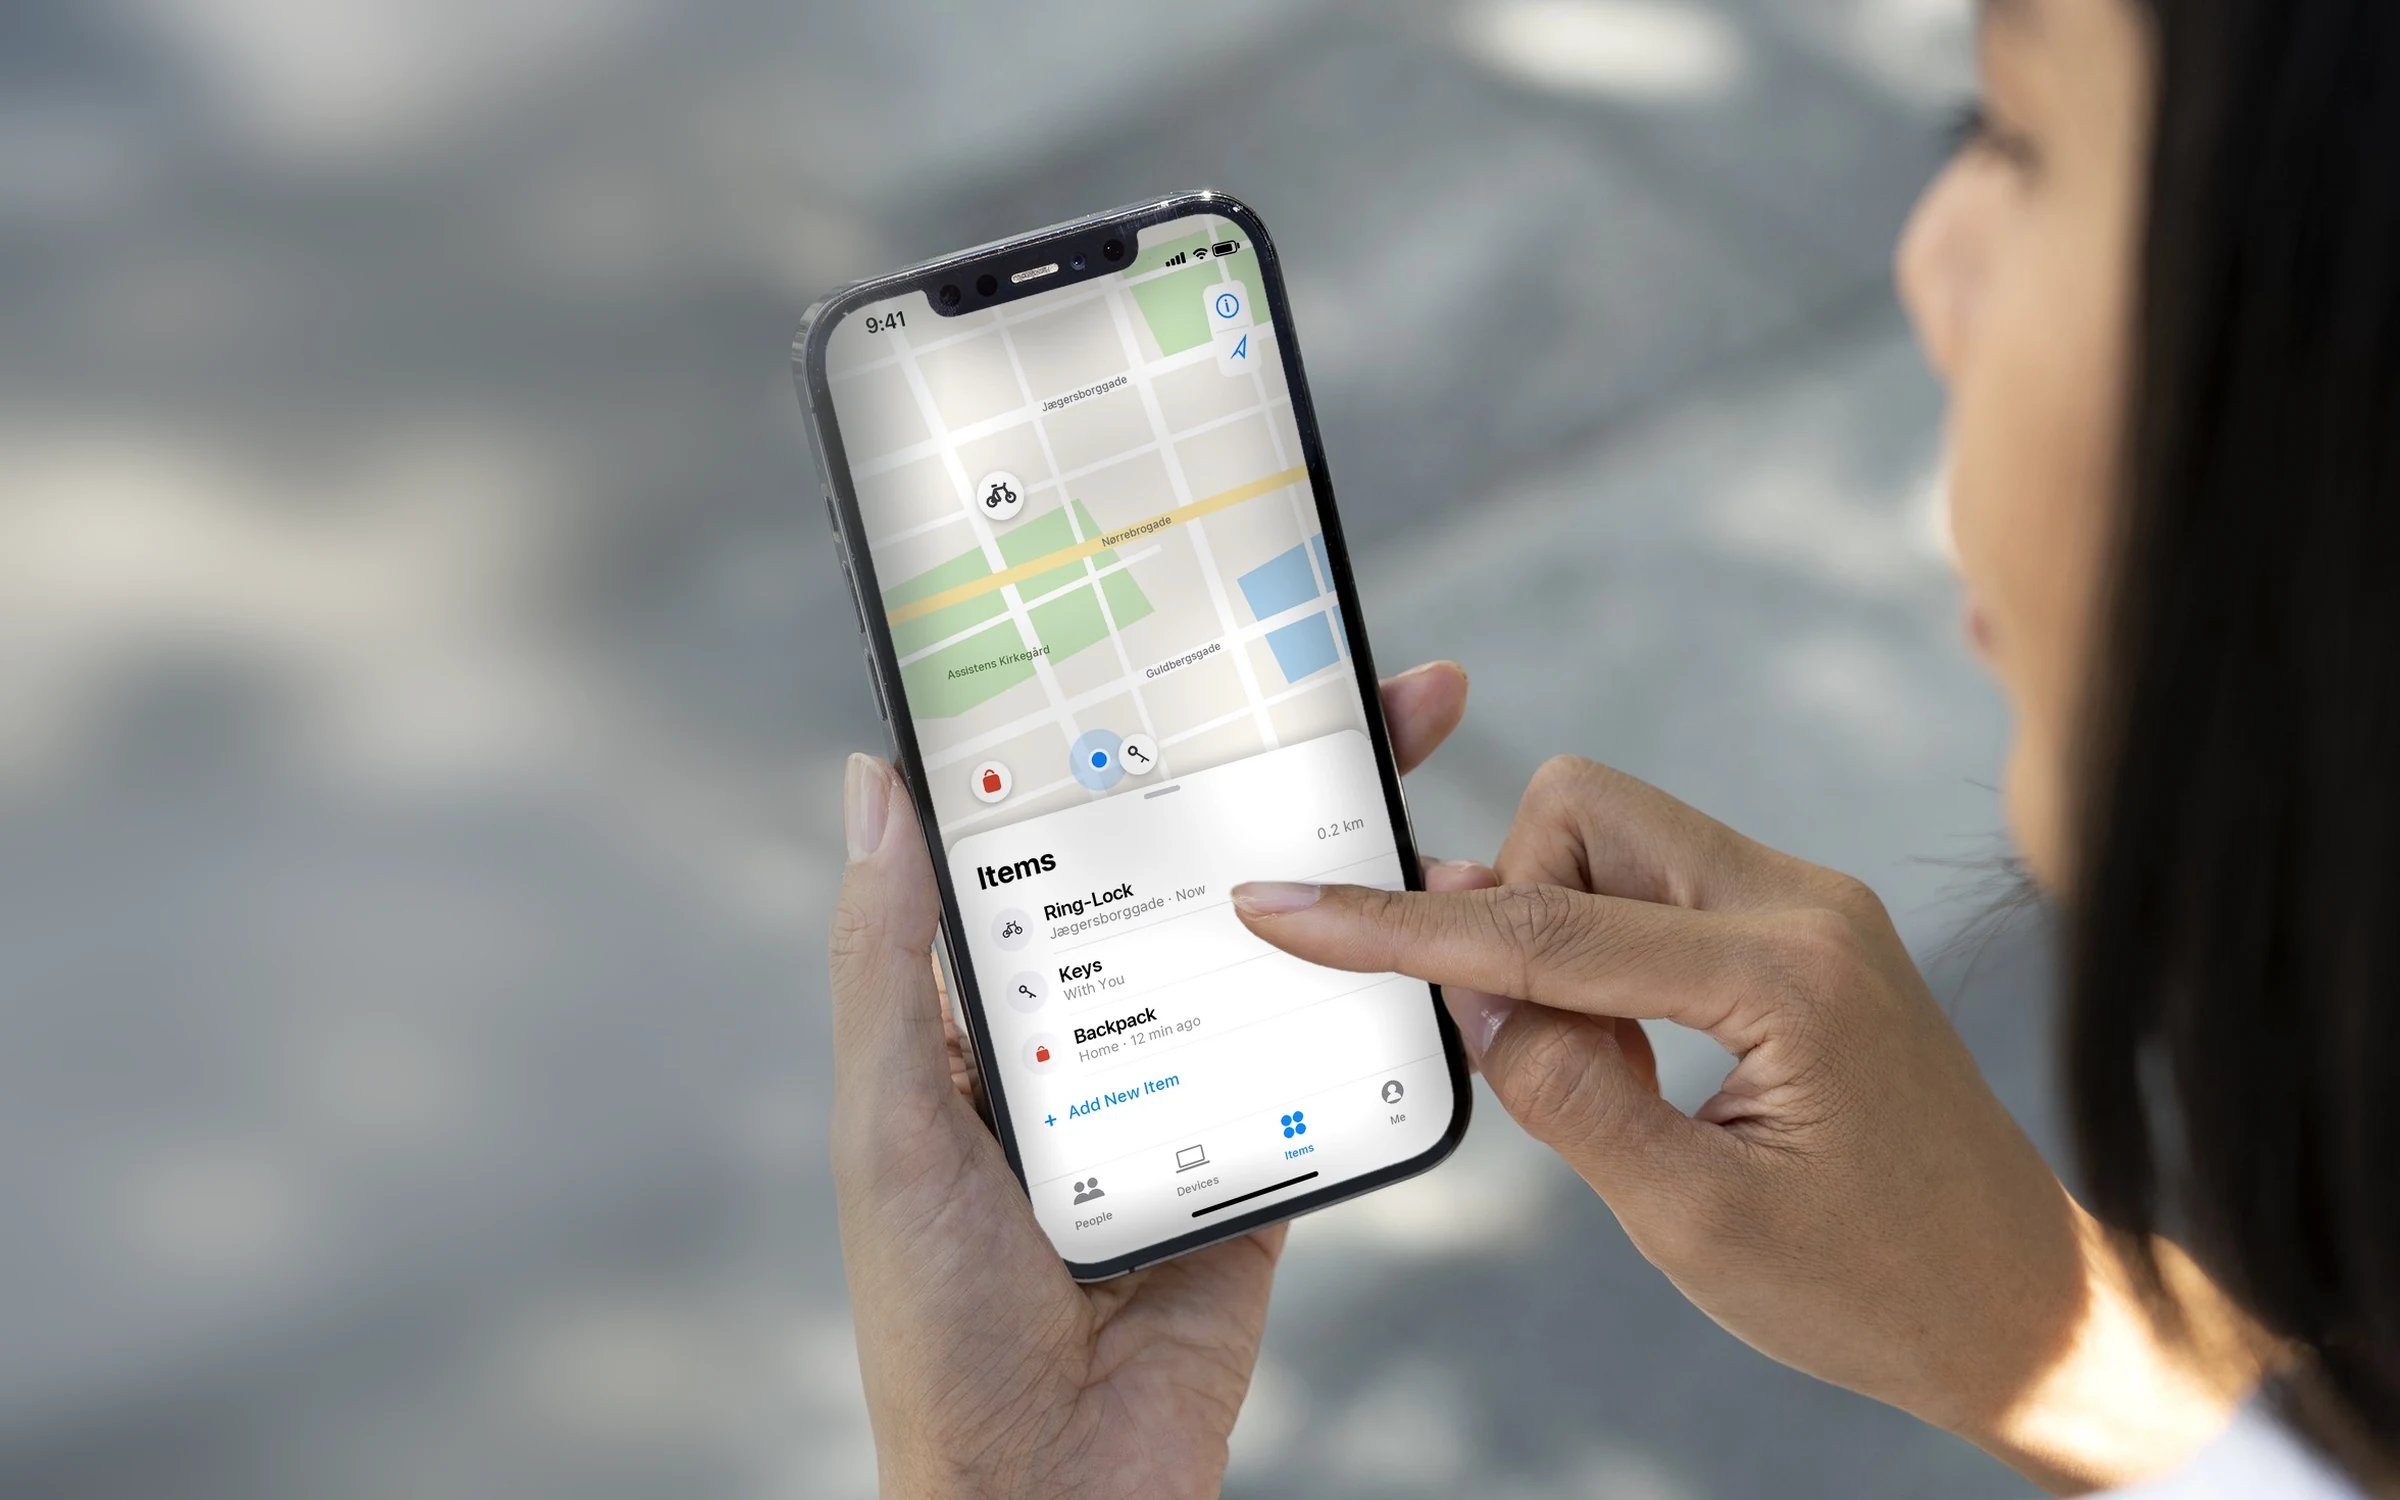
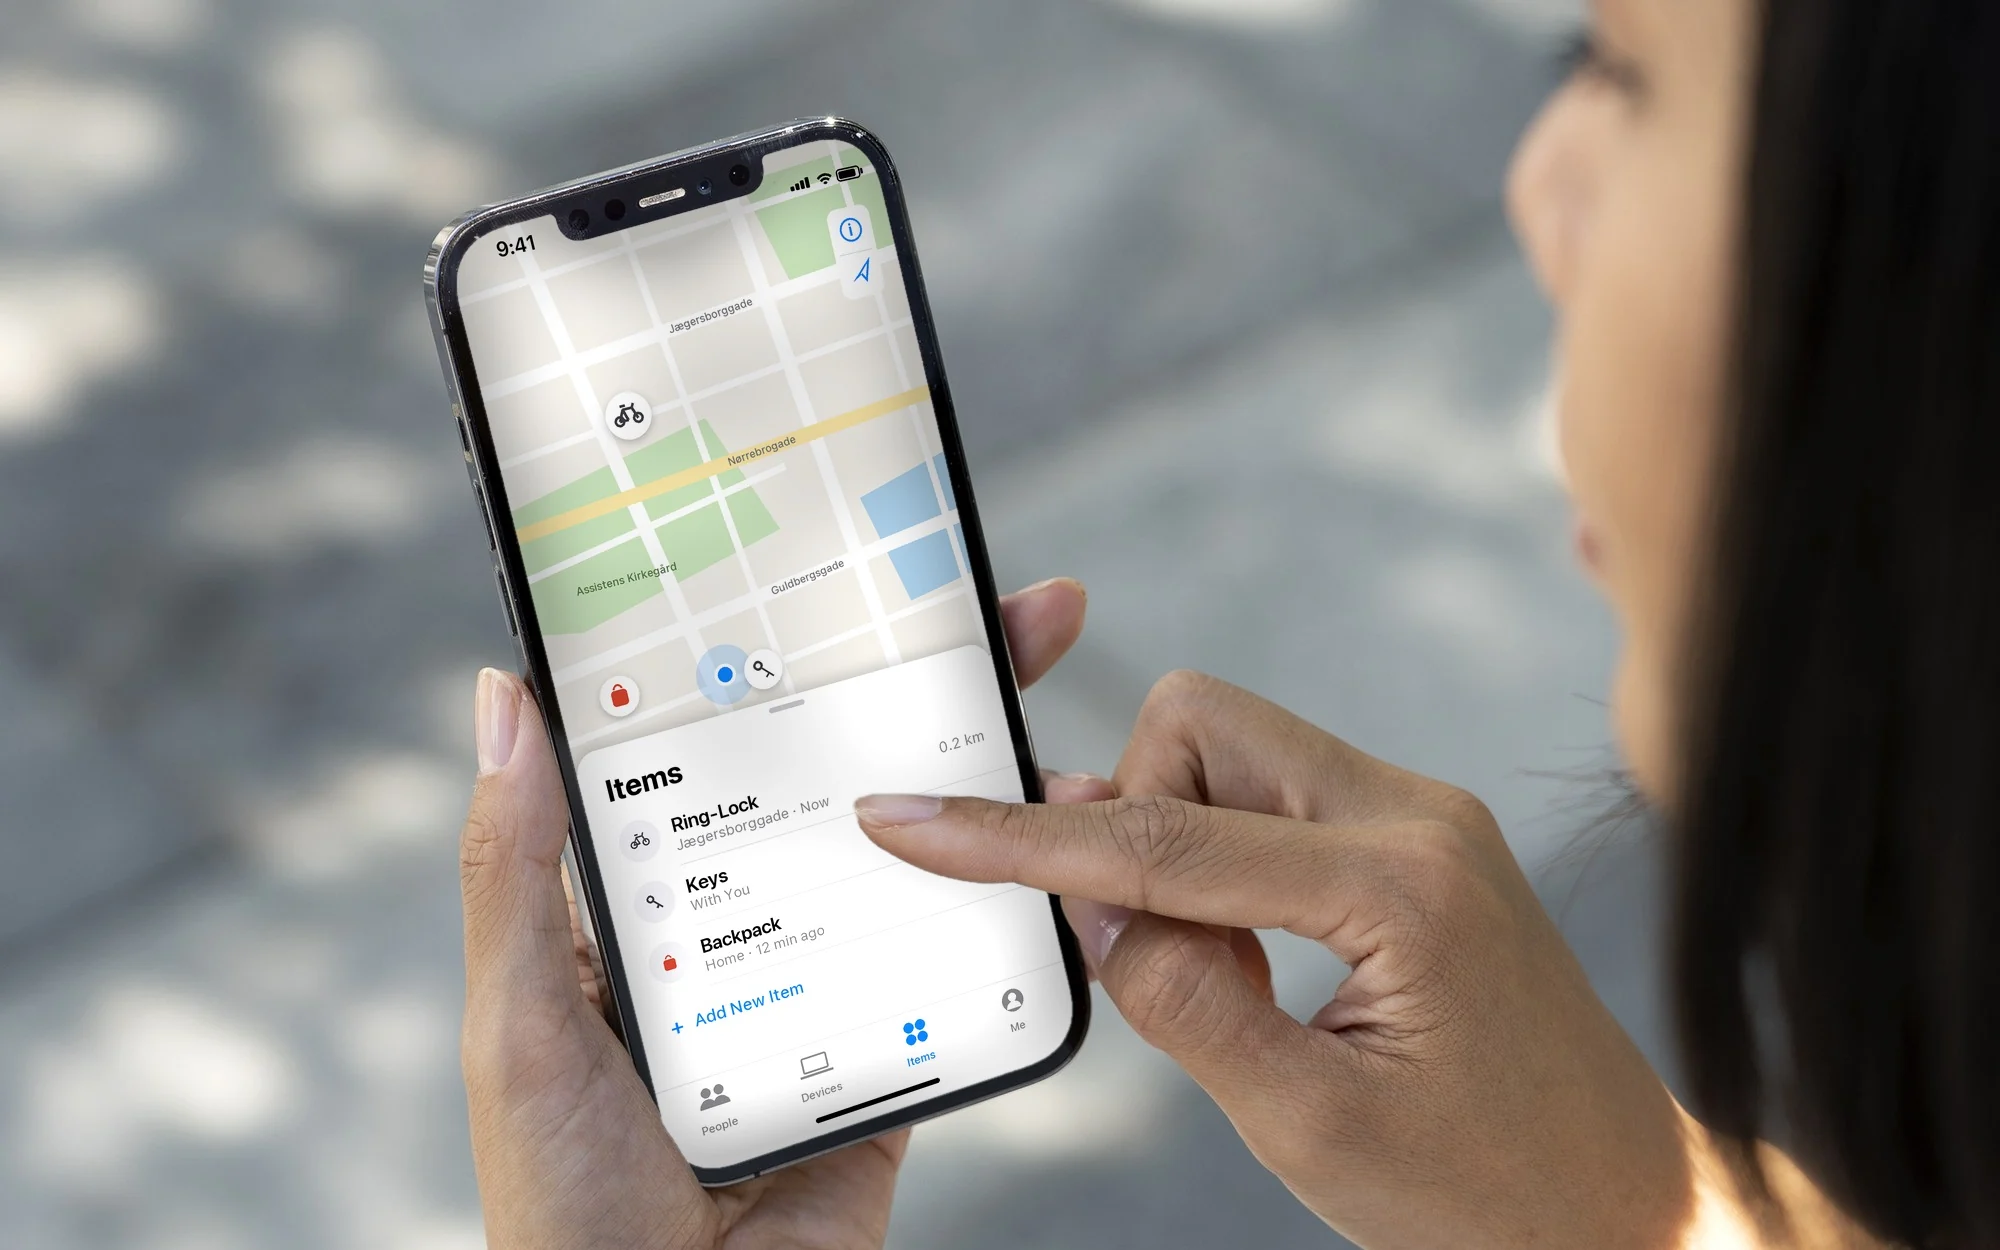
Story frames 2 and 3 as the photos are (no blurred fill), frame 3 = hand, phone and LAAS app at the bike; their lines sit right on wide screens

diff --git a/index.html b/index.html
@@ -22,7 +22,7 @@
 <link rel="preload" href="fonts/inter-400-600-latin.woff2" as="font" type="font/woff2" crossorigin>
 <link rel="preload" href="images/lock/steel-00-800.webp" as="image" type="image/webp" media="(max-width: 900px)">
 <link rel="preload" href="images/lock/steel-00-1600.webp" as="image" type="image/webp" media="(min-width: 901px)">
-<link rel="stylesheet" href="darkroom.css?v=1019i">
+<link rel="stylesheet" href="darkroom.css?v=1019j">
 <script>
   // the loader only exists when scripts run; if the 3D engine never arrives, the page still opens
   document.documentElement.classList.add('is-loading');
@@ -199,8 +199,8 @@
   <section class="tale" id="moved" data-nav-section="intro" data-tone="dark" data-bg="#202F30" data-key='{"hide":1}' aria-labelledby="h1c">
     <div class="tale__pin">
       <figure class="tale__shot is-on" data-i="0"><picture><source media="(max-width: 760px)" srcset="images/story/crowd-m.webp"><img src="images/story/crowd-wide.webp" alt="She looks around a park, trying to remember where she parked" decoding="async"></picture></figure>
-      <figure class="tale__shot" data-i="1"><picture><source media="(max-width: 760px)" srcset="images/story/findmy-m.webp?v=6"><img src="images/story/findmy-wide.webp?v=7" alt="On her iPhone, a map shows where her bike is" decoding="async"></picture></figure>
-      <figure class="tale__shot" data-i="2"><picture><source media="(max-width: 760px)" srcset="images/story/unlock2-m.webp?v=2"><img src="images/story/unlock-wide.webp?v=3" alt="A rider stands at his bike and unlocks his Ring-Lock with the LAAS app on his phone" decoding="async" loading="lazy"></picture></figure>
+      <figure class="tale__shot" data-i="1"><picture><source media="(max-width: 760px)" srcset="images/story/findmy-m.webp?v=6"><img src="images/story/findmy-wide.webp?v=8" alt="On her iPhone, a map shows where her bike is" decoding="async"></picture></figure>
+      <figure class="tale__shot" data-i="2"><picture><source media="(max-width: 760px)" srcset="images/story/unlock2-m.webp?v=3"><img src="images/story/unlock-wide.webp?v=5" alt="Standing at the bike, a hand holds the phone with the LAAS app and its Unlock button" decoding="async" loading="lazy"></picture></figure>
       <figure class="tale__shot" data-i="3"><picture><source media="(max-width: 760px)" srcset="images/story/ride-m.webp"><img src="images/story/ride-wide.webp" alt="She rides away across the square" decoding="async" loading="lazy"></picture></figure>
       <div class="tale__copy">
         <p class="tale__index label"><span class="tale__count"><b>01</b> / 04</span> Ring-Lock</p>

diff --git a/darkroom.css b/darkroom.css
@@ -2018,3 +2018,15 @@ html[data-tone="dark"] .nav__bag b, html.in-tale .nav__bag b { background: #ECEC
 .fmp .map, .fmp .fmp__pin, .fmp .fmp__sheet { visibility: hidden; }
 .fmp::after { z-index: 4; }
 .radar { display: none !important; }
+
+/* frames 2 and 3 are the photos as they are (no fill): the phone sits left, so on wide screens their line sits right */
+@media (min-width: 1101px) {
+  .tale__copy { left: var(--gutter); right: calc(var(--gutter) + 72px); width: auto; }
+  .tale__line { max-width: min(620px, 36vw); justify-self: start; }
+  .tale__line[data-i="1"], .tale__line[data-i="2"] { justify-self: end; text-align: right; }
+  .tale__index { justify-self: start; transition: opacity .3s; }
+  .tale[data-frame="1"] .tale__index, .tale[data-frame="2"] .tale__index { justify-self: end; }
+  .tale__pin::after { transition: background .6s; }
+  .tale[data-frame="1"] .tale__pin::after, .tale[data-frame="2"] .tale__pin::after { background: linear-gradient(270deg, rgba(20, 32, 33, .72) 0%, rgba(20, 32, 33, .3) 30%, rgba(20, 32, 33, 0) 46%), linear-gradient(0deg, rgba(20, 32, 33, .55) 0%, rgba(20, 32, 33, 0) 32%); }
+  .tale__shot[data-i="1"] img, .tale__shot[data-i="2"] img { object-position: 50% 50%; }
+}
